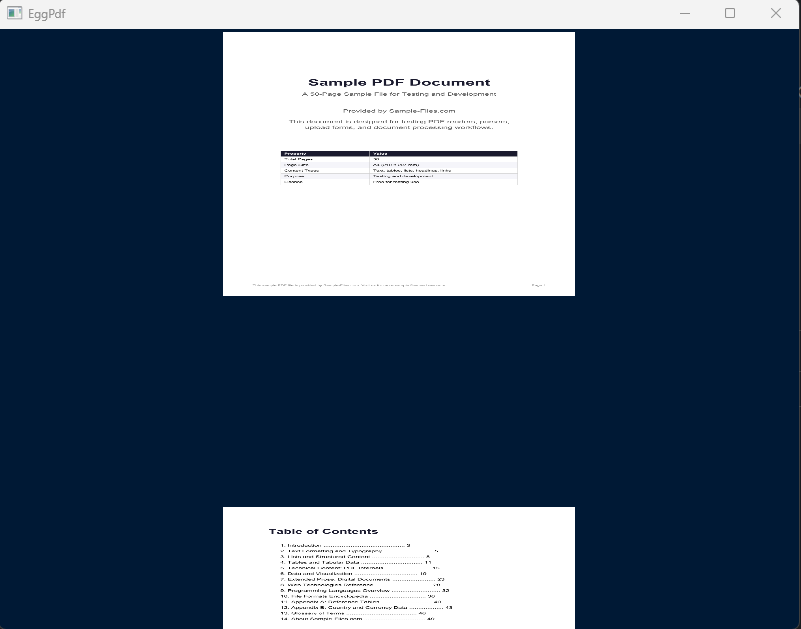
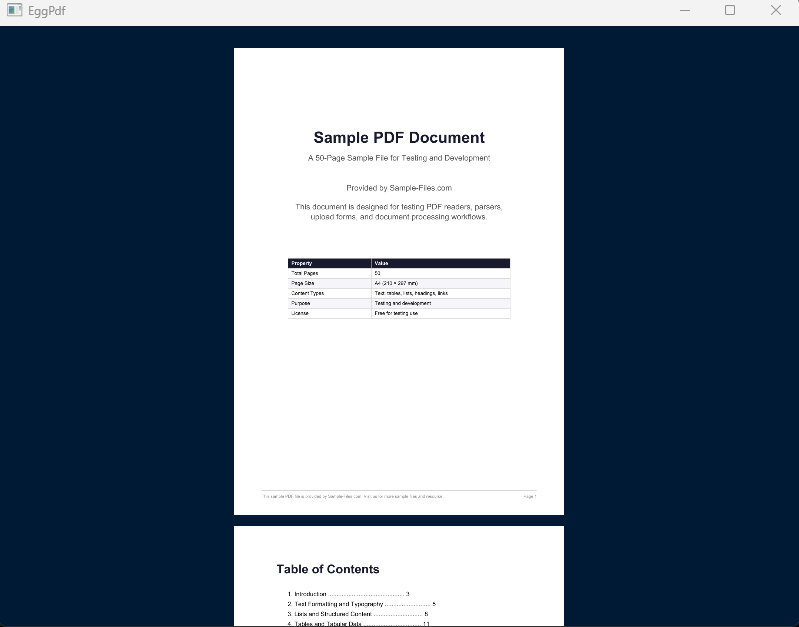
Introduced constant spacing between pages

Changed region(s): [[0.0, 0.0, 1.0, 1.0], [0.3304, 0.1212, 0.6608, 0.3636]]

diff --git a/README.md b/README.md
@@ -2,7 +2,7 @@
 
 A lightweight PDF viewer written using [OpenGL](https://www.opengl.org/) and [Apache PdfBox](https://pdfbox.apache.org/).
 
-The goal of this project is to make a lightweight feature rich and high-performance PDF viewer 
+The goal of this project is to make a lightweight feature-rich and high-performance PDF viewer 
 by taking advantage of GPU acceleration.
 
 ---
@@ -11,13 +11,15 @@ by taking advantage of GPU acceleration.
 
 ### Implemented
 - Basic OpenGL setup
-- Basic PdfBox setup
-- Rendering hardcoded PDF file, (loading the entire PDF into memory before rendering)
+- Basic PDFBox setup
+- Basic navigation (Scrolling, Zooming)
+- Rendering hardcoded PDF file
+- Visible page loading (loaded pages are not erased from memory)
 
 ### Planned
 - A UI
 - Annotations, search, selection, any other basic features
-- Multiple PDF support (via easy to use ui)
+- Multiple PDF support (via easy-to-use UI)
 - Optimizations of the graphics pipeline
 
 ---
@@ -34,7 +36,7 @@ by taking advantage of GPU acceleration.
 ### Requirements
 
 - Java (17+)
-- OpenGL supporting GPU
+- OpenGL compatible GPU
 - Gradle or Maven
 
 ### Clone Repository
@@ -44,13 +46,13 @@ git clone <this-repo>
 cd <project-name>
 ```
 
-### Compile and run
+### Compile and Run
 
 ```bash
 ./gradlew run
 ```
 ### Usage
-- Use W, S for scrolling the PDF.
+- Use W and S for scrolling the PDF.
 - Use Up and Down arrow keys to zoom in and out.
 
 ---
@@ -66,13 +68,14 @@ cd <project-name>
 This project exists mainly for:
 - learning OpenGL rendering in Java
 - an experiment in GPU-accelerated PDF rendering
-- a lightweight alternative to UI heavy PDF viewers
+- a lightweight alternative to UI-heavy PDF viewers
 
 ---
 
 ## Disclaimer
 
-Project is in early stages and may not work as expected.
+Project is in its early stages and may not work as expected.
+Going fullscreen will stretch the pages right now.
 
 ---
 
